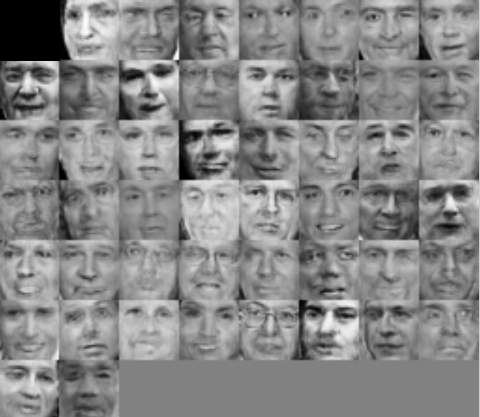
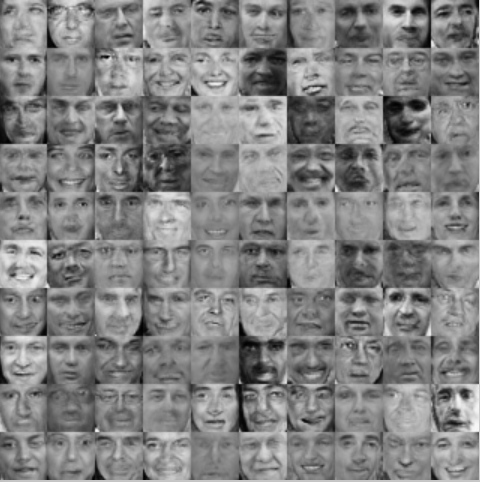
Change image

diff --git a/README.md b/README.md
@@ -12,9 +12,7 @@ The code of this repository is a modified version of facebook's [eyescream proje
 
 ![Example faces](images/faces.png?raw=true "Example faces")
 
-Example faces after 1.5 hours of training.
-
-TODO add better image
+Example faces after 2.5 hours of training.
 
 # Requirements
 
